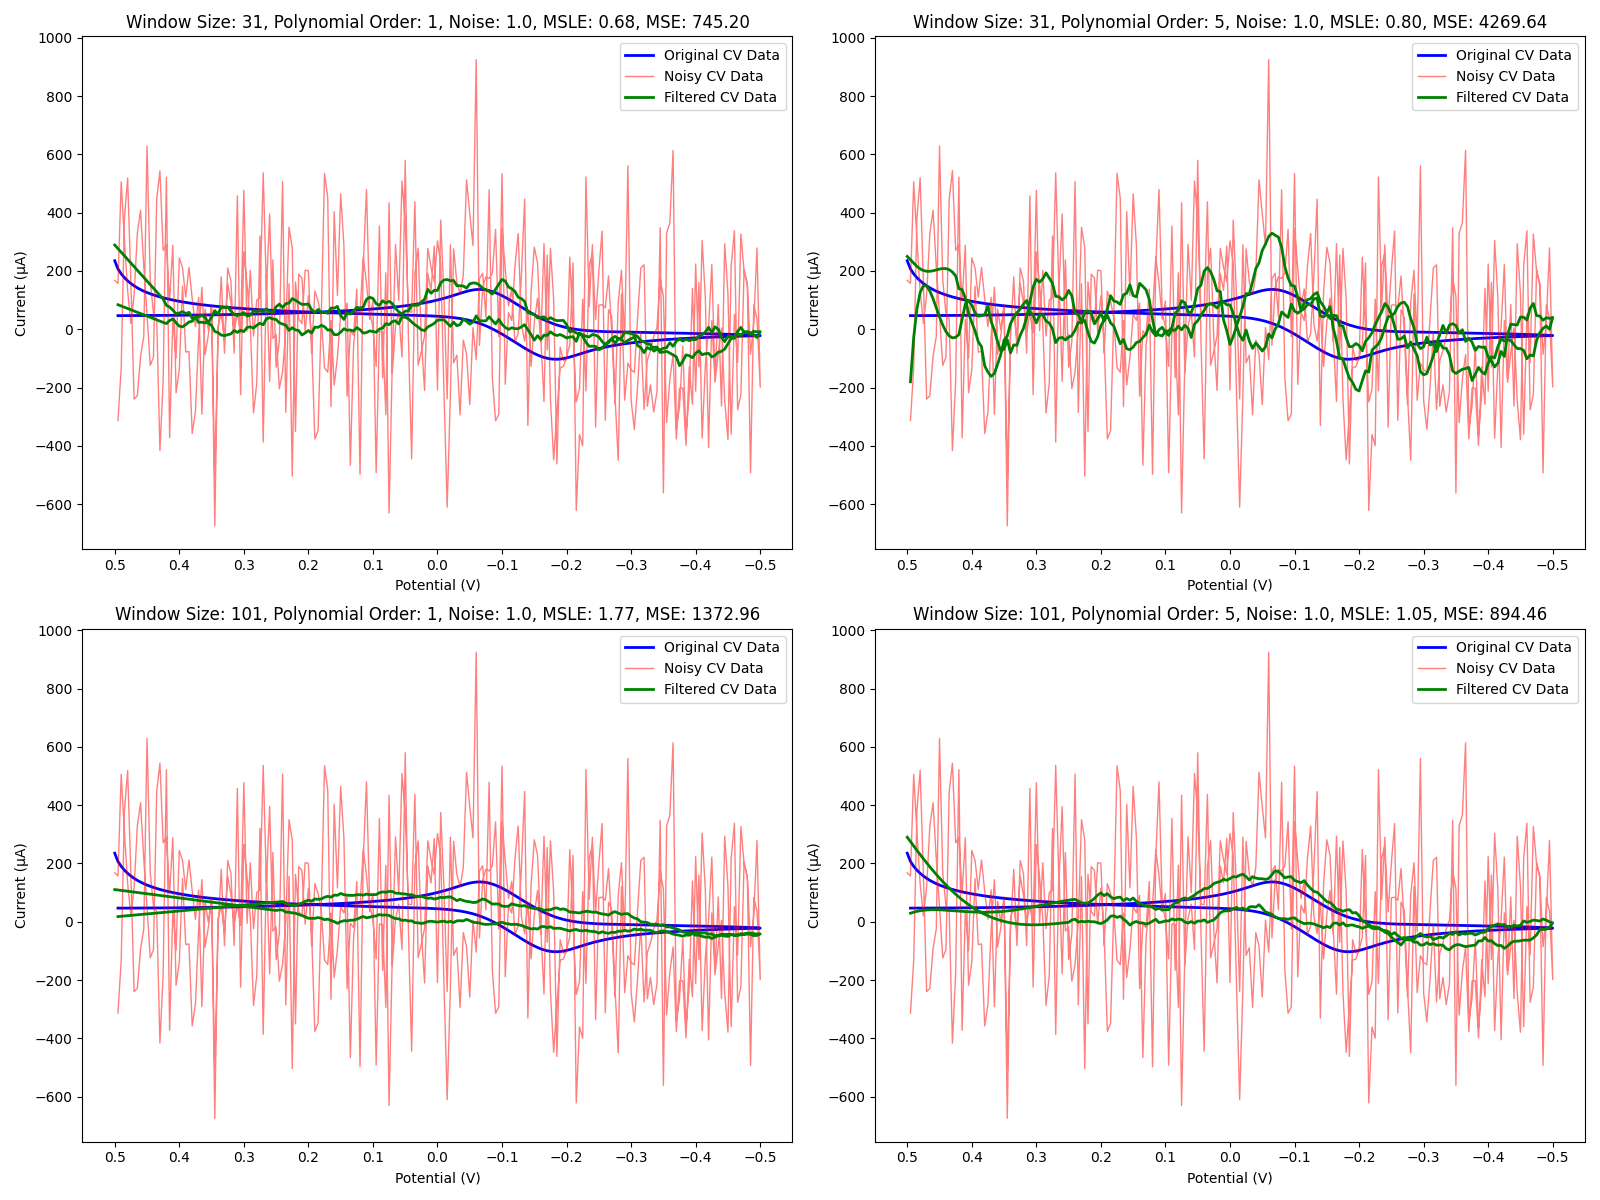
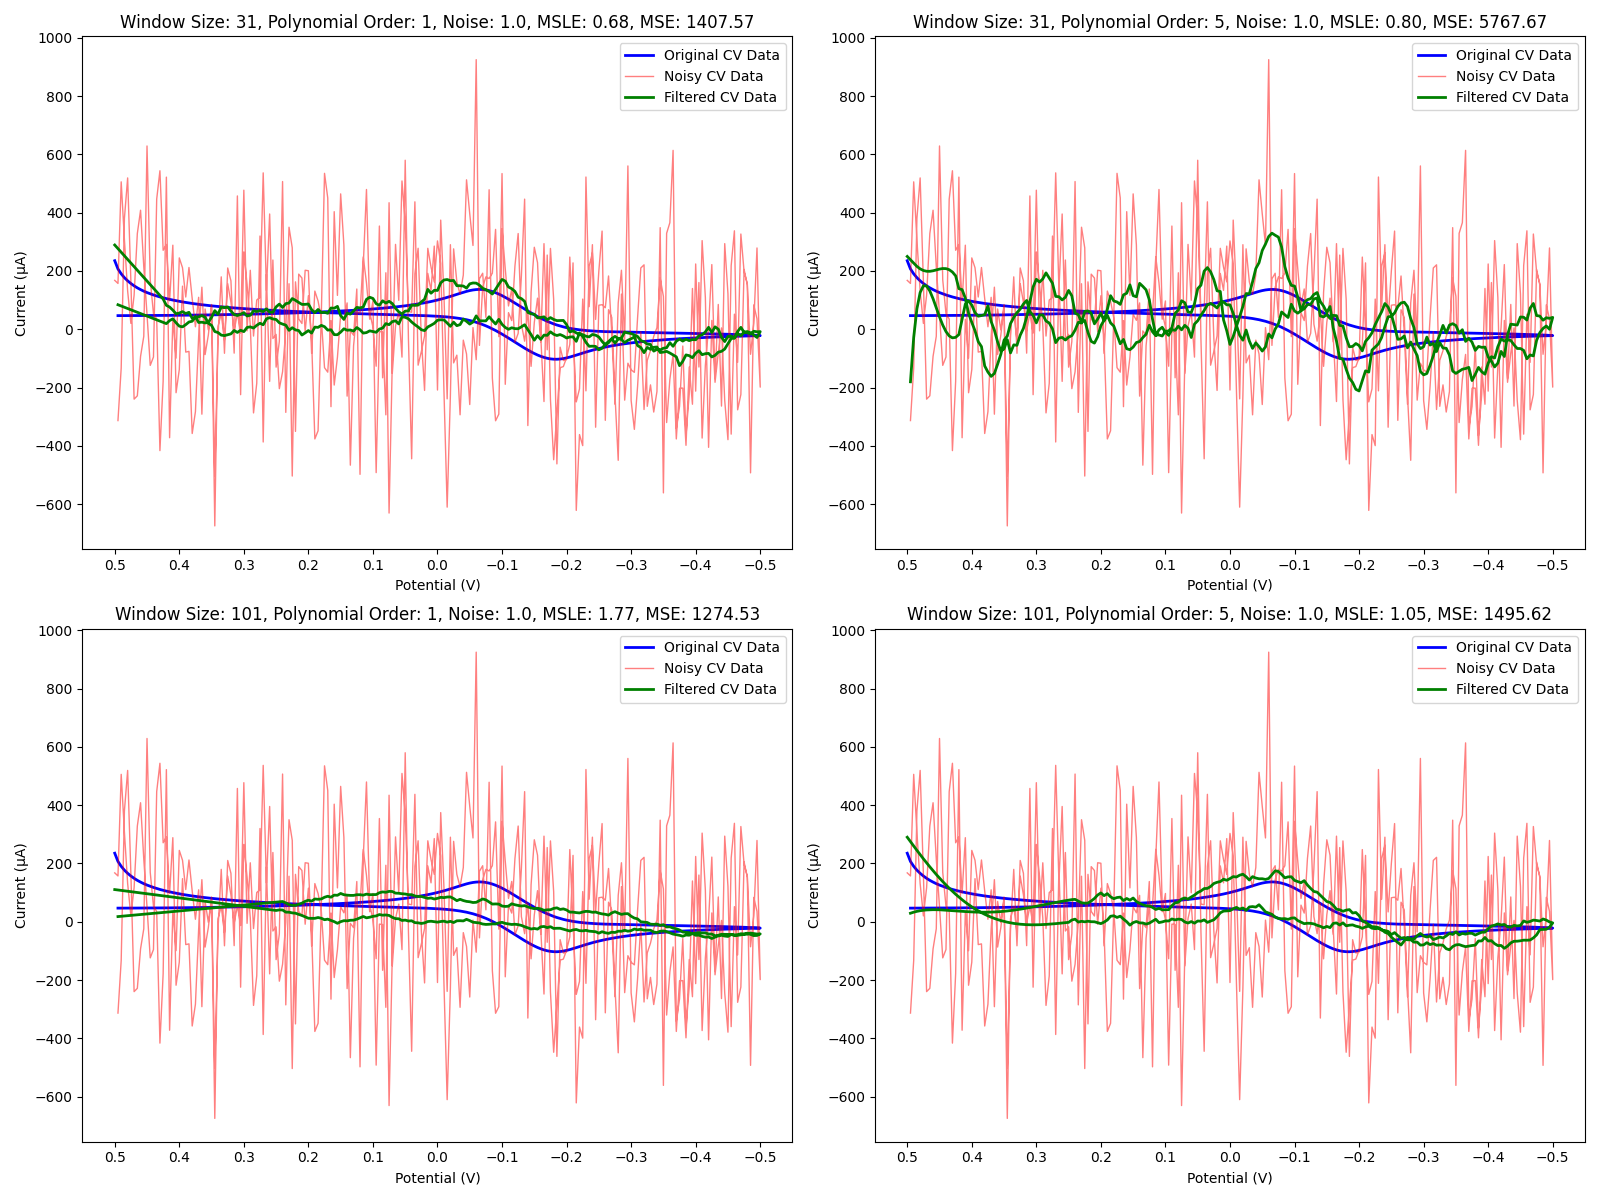
Negative values are NOT filtered out for MSE calc.

diff --git a/Script02-CV-Signal-SavGolFilter-WithHyperOpt.py b/Script02-CV-Signal-SavGolFilter-WithHyperOpt.py
@@ -48,19 +48,18 @@ def objective(params):
         I_noisy = I + np.random.normal(0, max(I) * noise, size=I.shape)
         I_restored = savgol_filter(I_noisy, window_length, poly_order)
         valid_indices = (E >= -0.5) & (E <= 0.2)
-        E_valid = E[valid_indices]
         I_original_valid = I[valid_indices]
         I_restored_valid = I_restored[valid_indices]
-        valid_mask = (I_original_valid > 0) & (I_restored_valid > 0)
-        I_original_valid = I_original_valid[valid_mask]
-        I_restored_valid = I_restored_valid[valid_mask]
-        msle = np.mean((np.log(I_original_valid + 1) - np.log(I_restored_valid + 1)) ** 2)
-        mse = np.mean((I_original_valid - I_restored_valid) ** 2)
+        valid_mask_msle = (I_original_valid > 0) & (I_restored_valid > 0)
+        I_original_valid_msle = I_original_valid[valid_mask_msle]
+        I_restored_valid_msle = I_restored_valid[valid_mask_msle]
+        msle = np.mean((np.log(I_original_valid_msle + 1) - np.log(I_restored_valid_msle + 1)) ** 2)
         msle_scores.append(msle)
-        mse_scores.append(mse)
+        mse = np.mean((I_original_valid - I_restored_valid) ** 2)
+        mse_scores.append(mse)  
     avg_msle = np.mean(msle_scores)
     avg_mse = np.mean(mse_scores)
-    return {'loss': avg_msle, 'status': STATUS_OK, 'mse': avg_mse}
+    return {'loss': avg_msle, 'status': STATUS_OK, 'msle': avg_msle, 'mse': avg_mse}
 
 # Perform hyperparameter optimization using hyperopt. Let's only use 20 attempts.
 trials = Trials()

diff --git a/Script01-CV-Signal-SavGolFilter-WithoutHyperOpt.py b/Script01-CV-Signal-SavGolFilter-WithoutHyperOpt.py
@@ -59,13 +59,13 @@ for noise in noise_levels:
         I_original_valid = I[valid_indices]
         I_restored_valid = I_restored[valid_indices]
 
-        # Filter out non-positive values to avoid runtime warnings
-        valid_mask = (I_original_valid > 0) & (I_restored_valid > 0)
-        I_original_valid = I_original_valid[valid_mask]
-        I_restored_valid = I_restored_valid[valid_mask]
+        # For MSLE calculation only, filter out non-positive values to avoid runtime warnings
+        valid_mask_msle = (I_original_valid > 0) & (I_restored_valid > 0)
+        I_original_valid_msle = I_original_valid[valid_mask_msle]
+        I_restored_valid_msle = I_restored_valid[valid_mask_msle]
 
         # Calculate mean squared logarithmic error (MSLE) of the results
-        msle = np.mean((np.log(I_original_valid + 1) - np.log(I_restored_valid + 1)) ** 2)
+        msle = np.mean((np.log(I_original_valid_msle + 1) - np.log(I_restored_valid_msle + 1)) ** 2)
         msle_results.append((window_length, poly_order, msle))
         all_msle_results[(window_length, poly_order)].append(msle)
 
